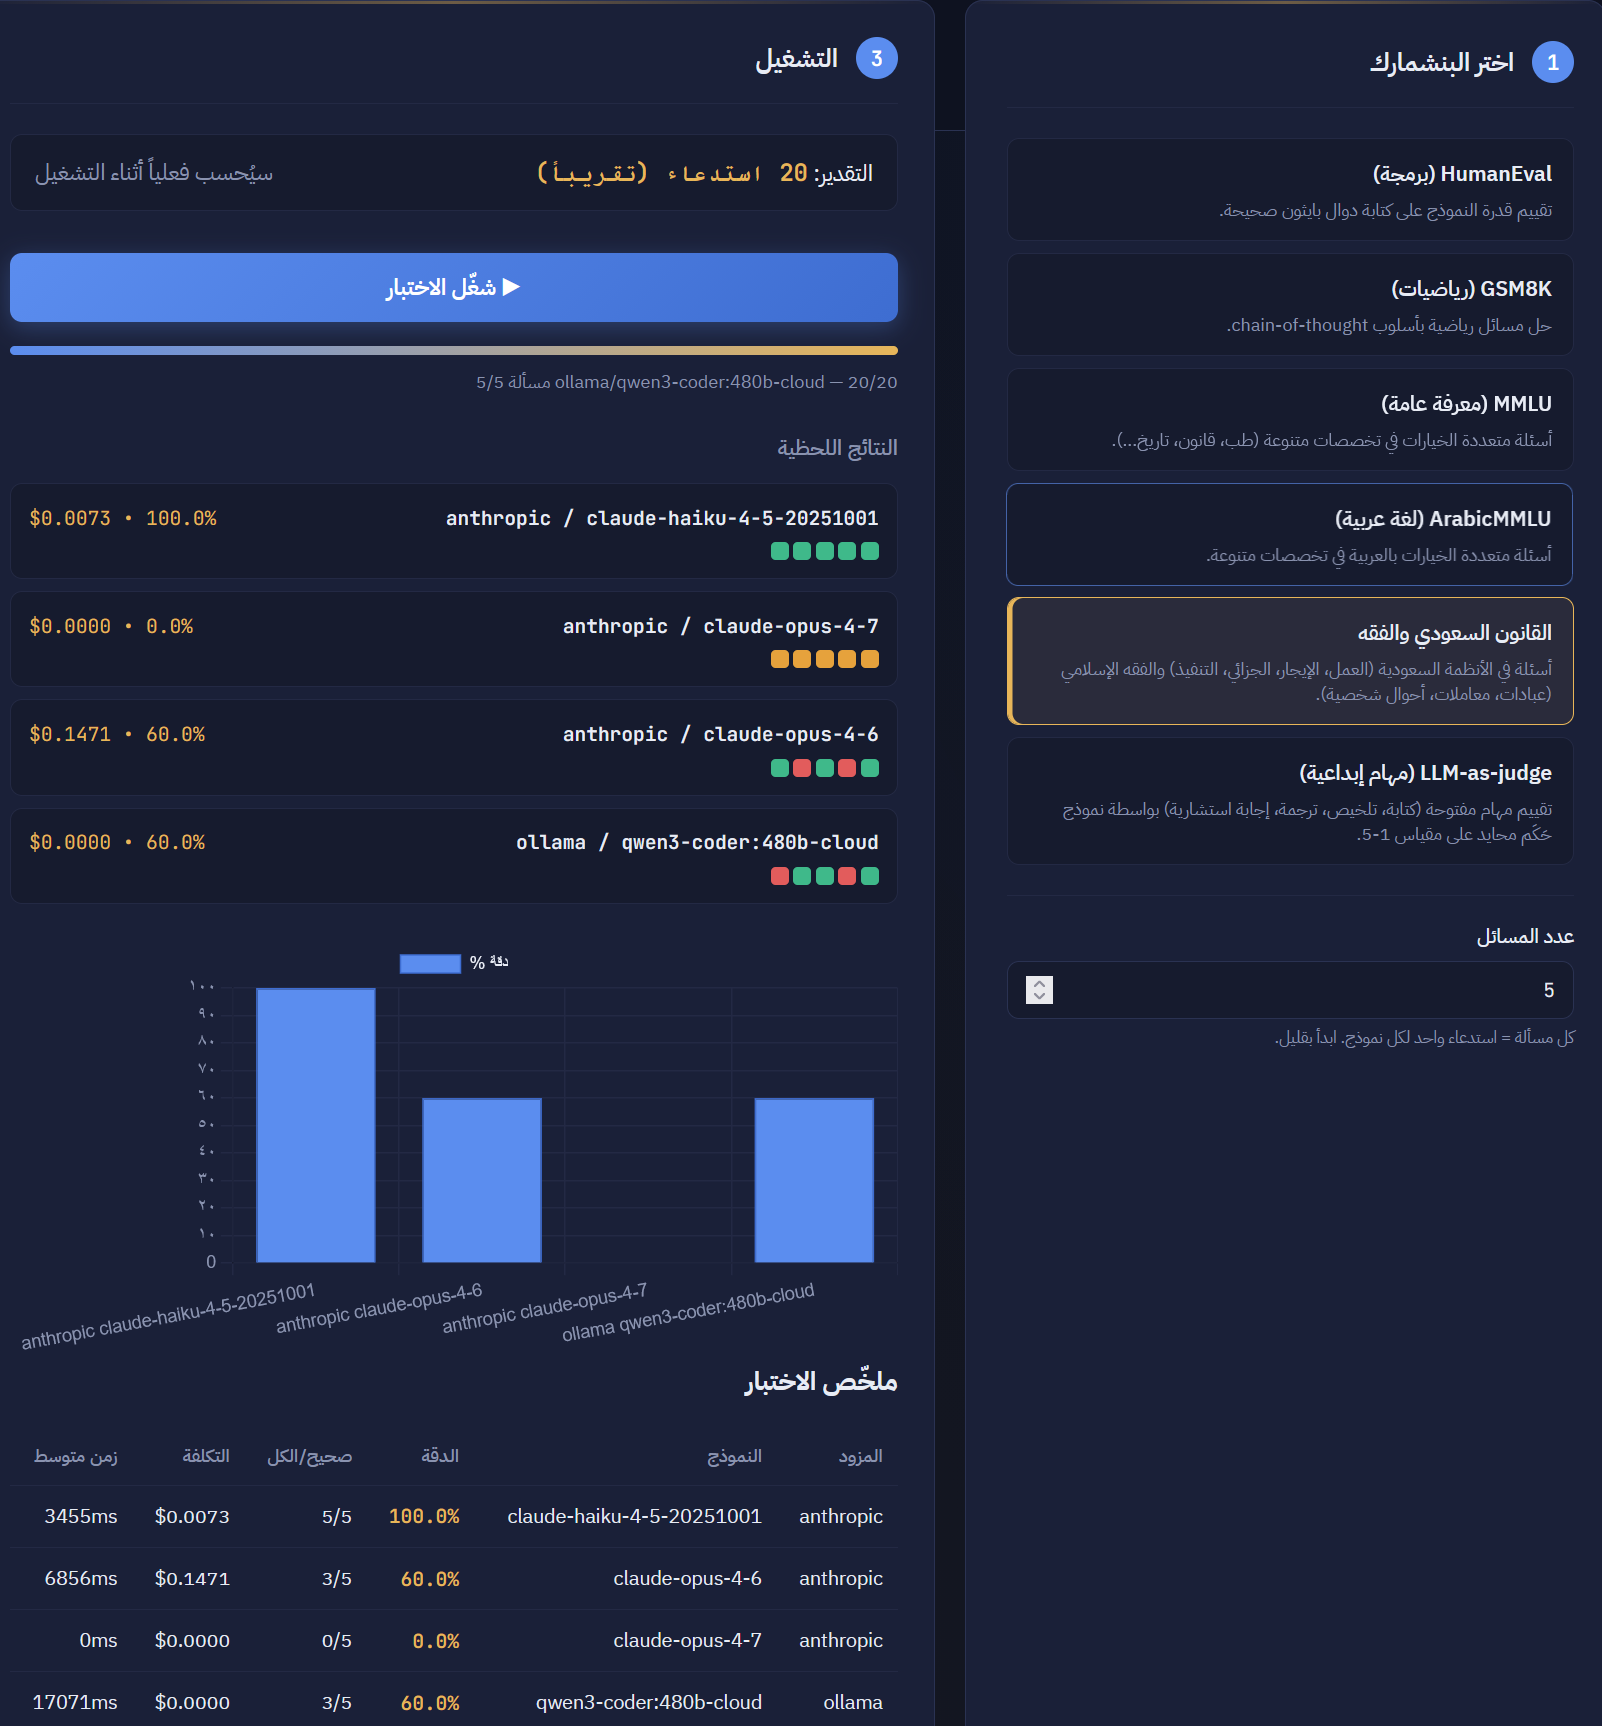
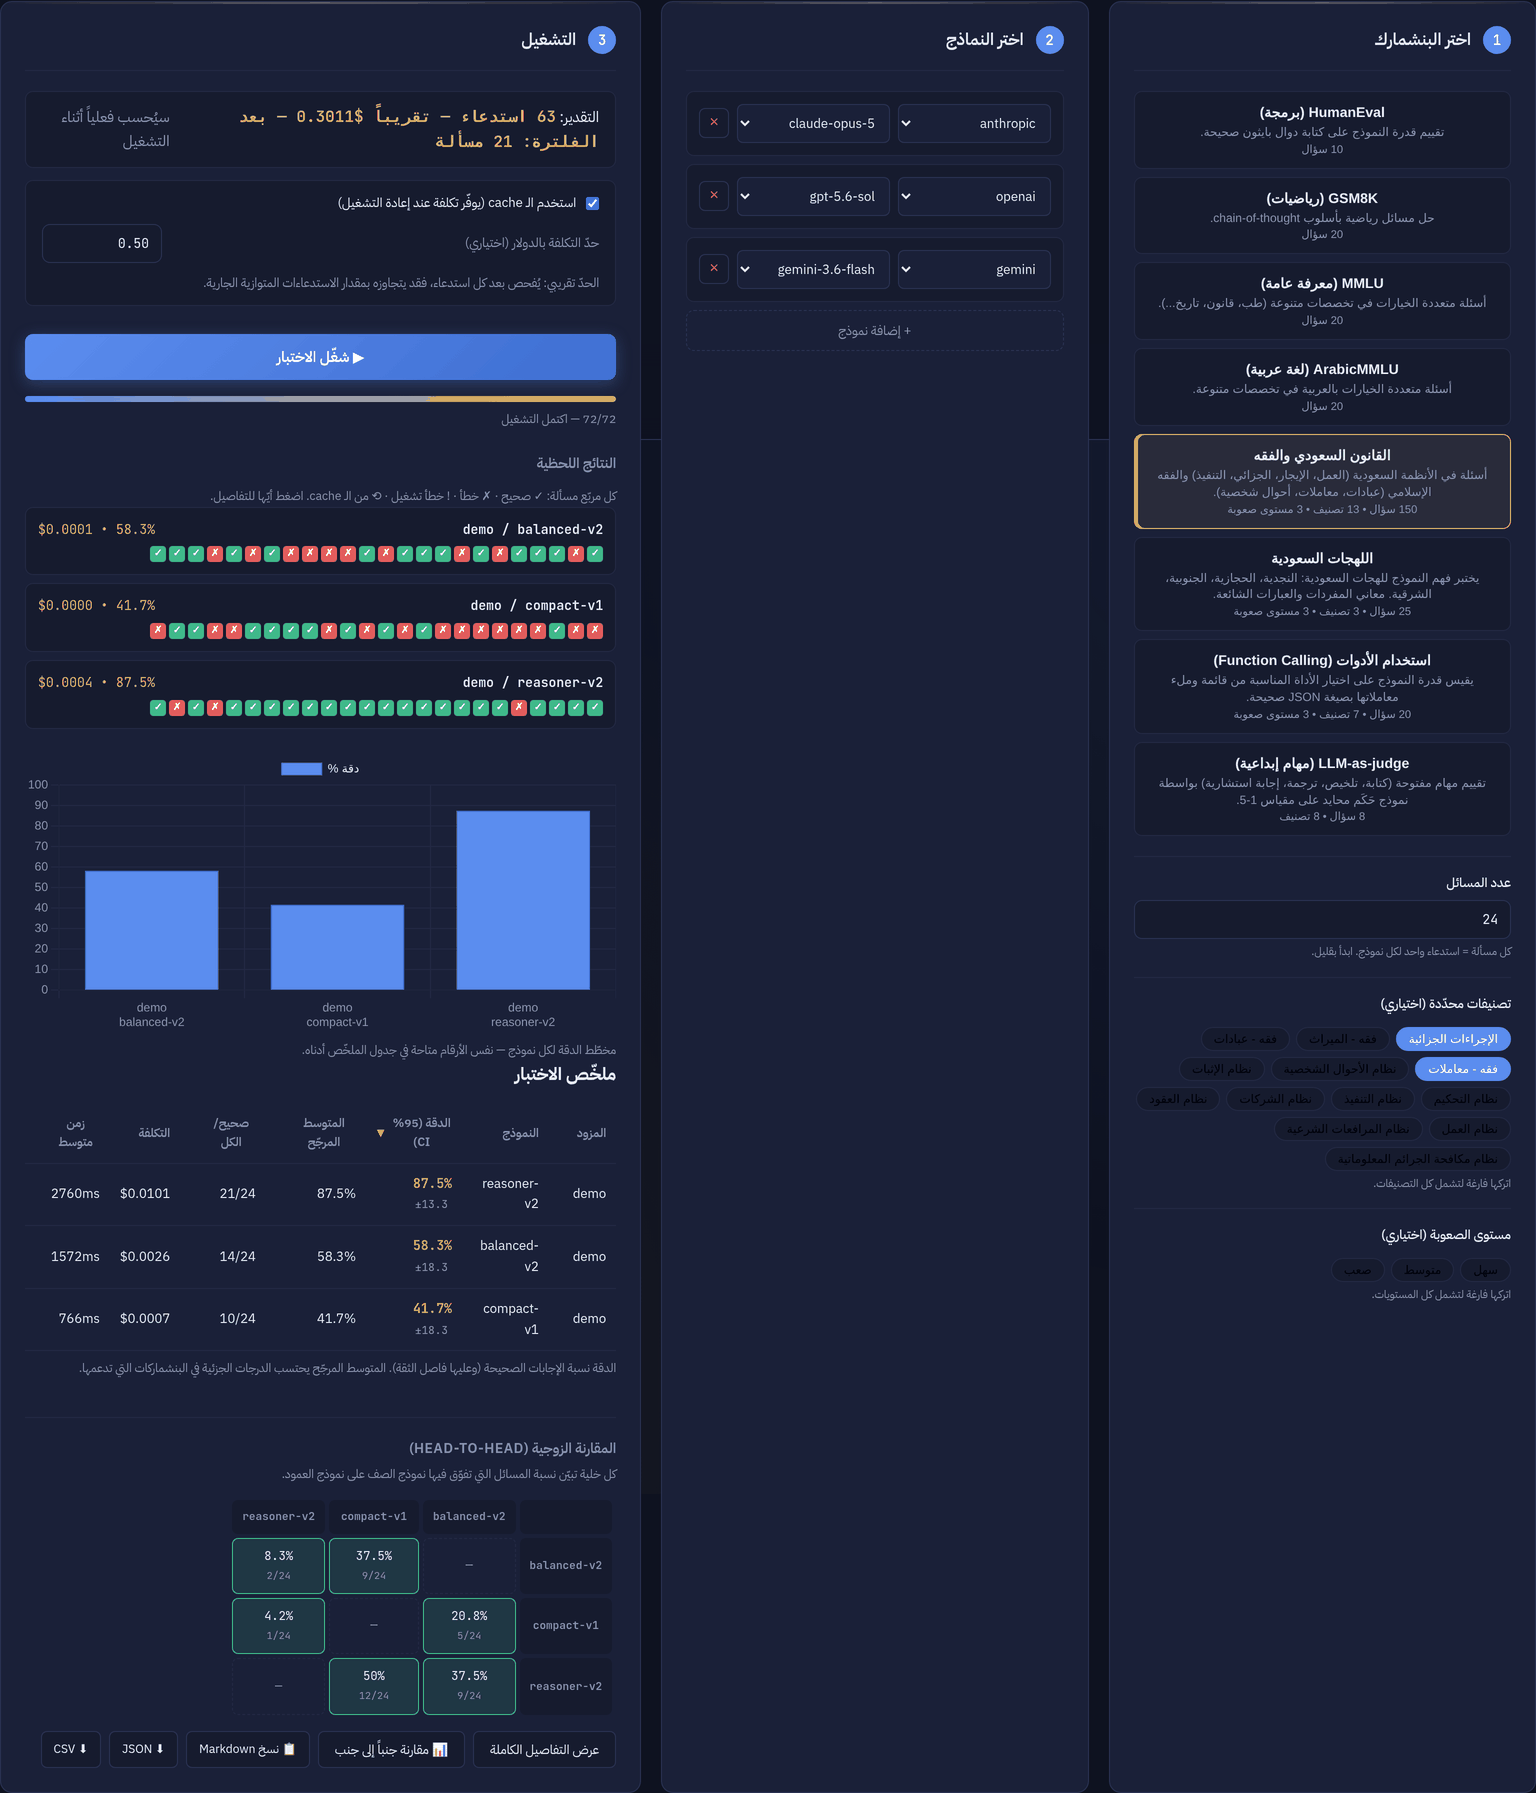
docs: تحديث لقطات README لتعكس الواجهة الجديدة
الصورة القديمة كانت تعرض واجهة ما قبل الإصلاح: نماذج قديمة، نقاط لونية
بلا رموز، وجدول ملخّص بلا فاصل ثقة ولا عمود المتوسط المرجّح.

اللقطات الجديدة (5): الشاشة الرئيسية، المظهر الفاتح، المقارنة جنباً إلى
جنب، لوحة النتائج، وعرض الجوال عند 390px.

الأرقام فيها نتائج تشغيل فعلي عبر محرّك المنصّة على 24 سؤالاً من بنشمارك
القانون السعودي، لكن بمزوّد تجريبي محلي (demo/*) لا بنماذج حقيقية — حتى
لا تُقرأ اللقطة كنتيجة بنشمارك منسوبة لمنتج. وهذا موضَّح تحت الصور.

كذلك صُحّح عدّاد النماذج في README من "33+" إلى 38 بعد تحديث القوائم.

حجم الصور 707KB بعد التصغير والتكميم (كان 2.5MB).

Claude-Session: https://claude.ai/code/session_01FT5TAKF7gHsit6iGcuV4Bs

diff --git a/README.md b/README.md
@@ -10,16 +10,47 @@
   <img src="https://img.shields.io/badge/sandbox-docker-2496ed.svg" alt="Docker Sandbox">
 </p>
 
-> منصة مفتوحة المصدر لمقارنة نماذج الذكاء الاصطناعي جنباً إلى جنب على بنشماركات حقيقية — تجمع بين **8 بنشماركات** (273 سؤالاً) و **9 مزوّدين** (33+ نموذج)، مع تركيز خاص على **اللغة العربية** و **الأنظمة السعودية والفقه الإسلامي**.
+> منصة مفتوحة المصدر لمقارنة نماذج الذكاء الاصطناعي جنباً إلى جنب على بنشماركات حقيقية — تجمع بين **8 بنشماركات** (273 سؤالاً) و **9 مزوّدين** (38 نموذجاً + اكتشاف تلقائي لنماذج Ollama)، مع تركيز خاص على **اللغة العربية** و **الأنظمة السعودية والفقه الإسلامي**.
 
 <p align="center">
-  <img src="screenshots/ui.png" alt="واجهة منصة بنشمارك الذكاء الاصطناعي" width="800">
+  <img src="screenshots/ui.png" alt="واجهة منصة بنشمارك الذكاء الاصطناعي — اختيار البنشمارك والنماذج مع النتائج اللحظية" width="900">
   <br>
-  <sub><i>الواجهة الرئيسية — مقارنة النماذج جنباً إلى جنب</i></sub>
+  <sub><i>الواجهة الرئيسية — من اختيار البنشمارك إلى النتائج اللحظية وفاصل الثقة والمقارنة الزوجية</i></sub>
+</p>
+
+<table align="center">
+  <tr>
+    <td width="50%" align="center">
+      <img src="screenshots/light.png" alt="المظهر الفاتح" width="100%">
+      <br><sub><i>المظهر الفاتح — كل أزواج الألوان تتجاوز WCAG AA</i></sub>
+    </td>
+    <td width="50%" align="center">
+      <img src="screenshots/diff.png" alt="المقارنة جنباً إلى جنب" width="100%">
+      <br><sub><i>المقارنة جنباً إلى جنب — نفس السؤال على كل النماذج</i></sub>
+    </td>
+  </tr>
+  <tr>
+    <td align="center">
+      <img src="screenshots/results.png" alt="لوحة النتائج" width="62%">
+      <br><sub><i>لوحة النتائج — النقاط اللحظية والمخطّط والملخّص</i></sub>
+    </td>
+    <td align="center">
+      <img src="screenshots/mobile.png" alt="عرض الجوال" width="36%">
+      <br><sub><i>الجوال — 390px بلا تمرير أفقي</i></sub>
+    </td>
+  </tr>
+</table>
+
+<p align="center">
+  <sub>
+    🔎 <b>عن الأرقام في اللقطات:</b> هي نتائج تشغيل <b>فعلي</b> عبر محرّك المنصّة على 24 سؤالاً من
+    بنشمارك القانون السعودي، لكن بمزوّد <b>تجريبي محلي</b> (<code>demo/*</code>) لا بنماذج حقيقية —
+    فلا تُقرأ كنتائج بنشمارك لأي منتج.
+  </sub>
 </p>
 
 <p align="center">
-  <b>8</b> بنشماركات &nbsp;•&nbsp; <b>9</b> مزوّدين &nbsp;•&nbsp; <b>33+</b> نموذج &nbsp;•&nbsp; <b>273</b> سؤال &nbsp;•&nbsp; <b>150</b> سؤال سعودي
+  <b>8</b> بنشماركات &nbsp;•&nbsp; <b>9</b> مزوّدين &nbsp;•&nbsp; <b>38</b> نموذجاً &nbsp;•&nbsp; <b>273</b> سؤال &nbsp;•&nbsp; <b>150</b> سؤال سعودي
 </p>
 
 ---
